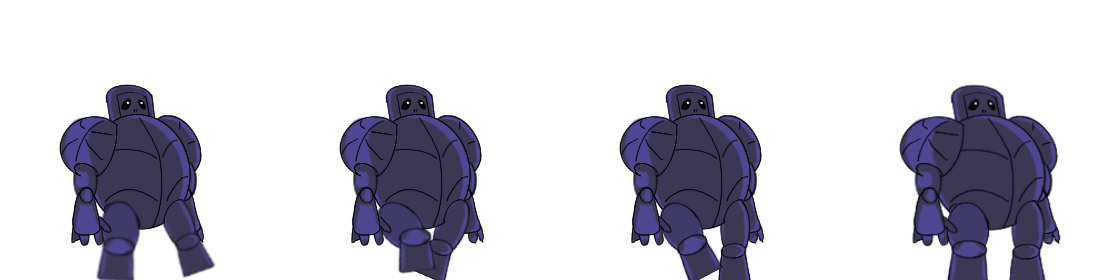
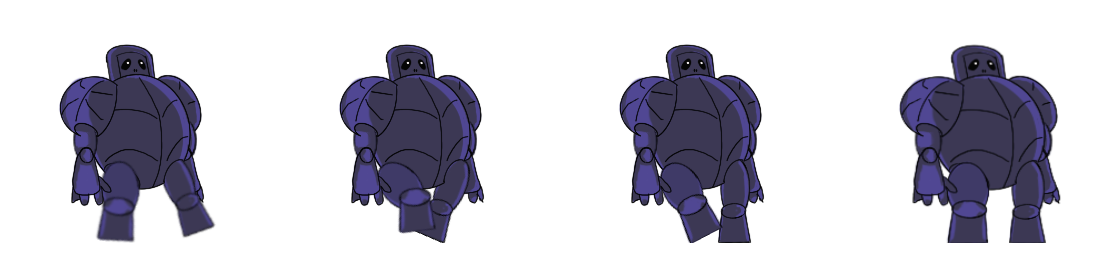
Player：各種アクションの当たり判定を微調整 Resourceフォルダ：ビッグドールのモーション素材を差し替え

diff --git a/AMG08_INNOCENT_REAPER/Game.h b/AMG08_INNOCENT_REAPER/Game.h
@@ -29,8 +29,8 @@ namespace inr {
 	constexpr auto DEBUG_WINDOW_W = 1280;
 	constexpr auto DEBUG_WINDOW_H = 720;
 #endif
-	constexpr auto PLAYER_WIDTH = 60;
-	constexpr auto PLAYER_HIGHT = 100;
+	constexpr auto PLAYER_WIDTH = 50;
+	constexpr auto PLAYER_HEIGHT = 110;
 
 	namespace key {
 		constexpr auto SOUND_NUM = "num";
